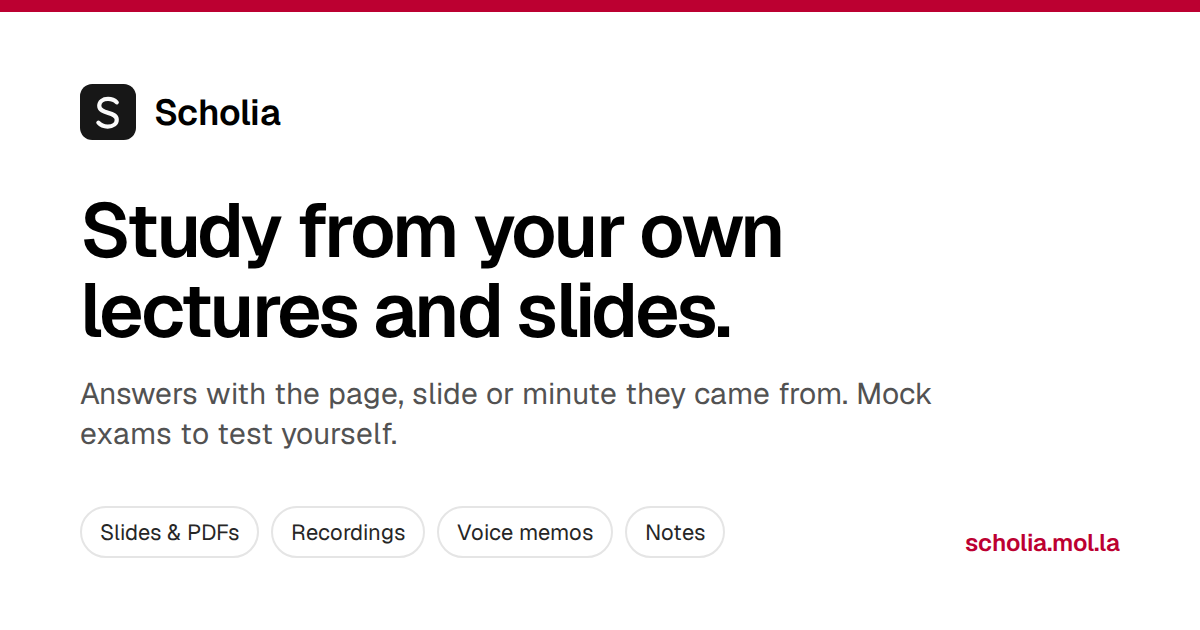
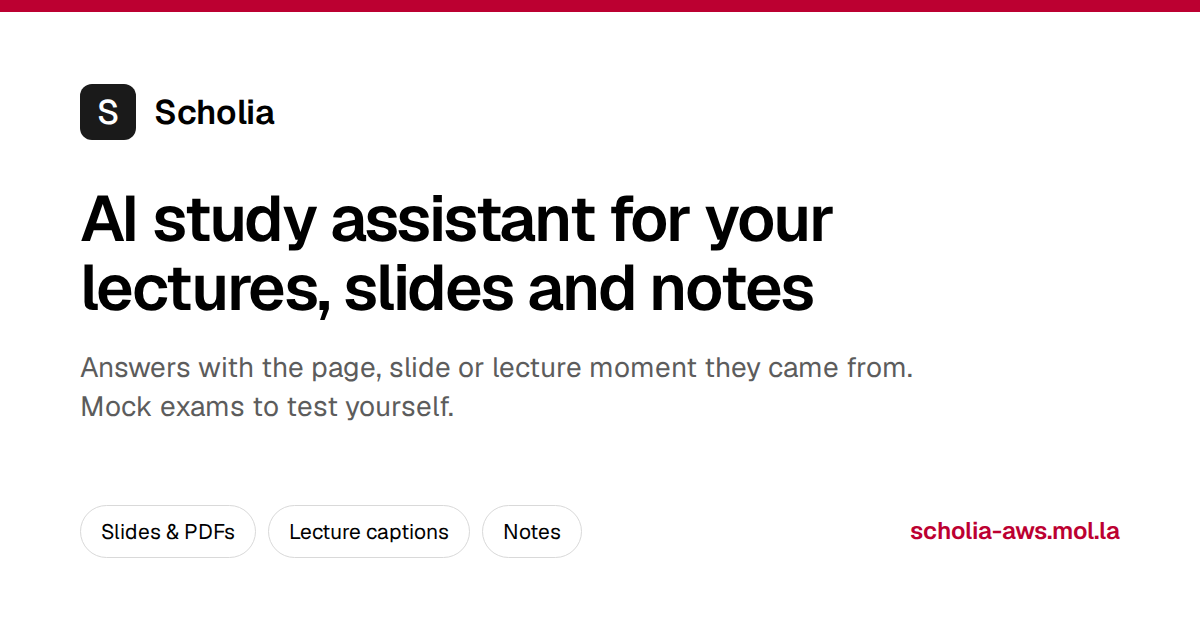
fix(web): use one title across the site and readme (#4)
The tab title, header, landing headline, share image and README each said
something slightly different, and the share image still listed voice memos
and pointed at the other Scholia deployment. They now all read "AI study
assistant for your lectures, slides and notes". The README also says why
the project exists.

The full title is 63 characters, so the search-result length check allows 65.

diff --git a/web/src/lib/content.ts b/web/src/lib/content.ts
@@ -5,6 +5,8 @@
  * native English speakers.
  */
 
+import { siteTagline } from './site.ts'
+
 export const siteUrl = 'https://scholia-aws.mol.la'
 export const repoUrl = 'https://github.com/SumonMSelim/scholia-aws'
 
@@ -12,7 +14,7 @@ export const description =
   'Upload slides, PDFs, notes and lecture captions. Ask questions and get answers with the page, slide or lecture moment they came from. Practice with mock exams.'
 
 export const hero = {
-  title: 'Study from your own lectures and slides.',
+  title: siteTagline,
   body:
     'Upload slides, PDFs, notes and lecture captions. ' +
     'Ask a question and get an answer from your course, with the page, slide or lecture moment it came from. ' +

diff --git a/web/src/App.test.tsx b/web/src/App.test.tsx
@@ -74,7 +74,8 @@ describe('App', () => {
     vi.spyOn(globalThis, 'fetch').mockReturnValue(new Promise(() => {}))
     render(<App />)
     expect(screen.getByRole('heading', { level: 1 })).toHaveTextContent(hero.title)
-    expect(screen.getByText(siteTagline)).toBeInTheDocument()
+    // The headline and the header both carry the tagline.
+    expect(screen.getAllByText(siteTagline)).toHaveLength(2)
     for (const name of ['What Scholia does', 'How it works', 'Files you can upload', 'Questions']) {
       expect(screen.getByRole('heading', { level: 2, name })).toBeInTheDocument()
     }

diff --git a/web/src/lib/site.ts b/web/src/lib/site.ts
@@ -1,4 +1,4 @@
-/** The site's name and tagline. The tab title, header and footer all read these. */
+/** The site's name and tagline. The tab title, header, footer and landing headline all read these. */
 export const siteName = 'Scholia'
-export const siteTagline = 'AI study assistant for your lectures and slides'
+export const siteTagline = 'AI study assistant for your lectures, slides and notes'
 export const siteTitle = `${siteName}: ${siteTagline}`

diff --git a/web/src/lib/seo.test.ts b/web/src/lib/seo.test.ts
@@ -23,7 +23,7 @@ describe('seo', () => {
   })
 
   it('keeps the description short enough for search results', () => {
-    expect(siteTitle.length).toBeLessThanOrEqual(60)
+    expect(siteTitle.length).toBeLessThanOrEqual(65)
     expect(description.length).toBeLessThanOrEqual(160)
   })
 

diff --git a/README.md b/README.md
@@ -1,10 +1,12 @@
-# Scholia
+# Scholia: AI study assistant for your lectures, slides and notes
 
 [![CI](https://github.com/SumonMSelim/scholia-aws/actions/workflows/ci.yml/badge.svg)](https://github.com/SumonMSelim/scholia-aws/actions/workflows/ci.yml)
 [![Go](https://img.shields.io/badge/Go-1.27-00ADD8?logo=go&logoColor=white)](https://go.dev/)
 [![License: MIT](https://img.shields.io/badge/License-MIT-blue.svg)](LICENSE)
 
 Scholia turns a course's lecture transcripts, slides, notes and assignments into a knowledge base that answers questions with citations to the exact lecture moment, slide or page, and helps you prepare for exams. The name comes from *scholia*, the notes scholars wrote in the margins of classical texts.
+
+I built Scholia for myself first, to help with my Master's studies. I wanted answers that come from my own course and that I can check against the lecture. It is free and open source so any student can use it the same way.
 
 **Live app:** https://scholia-aws.mol.la (click **Try the demo, no sign-up**; guest data is deleted after 48 hours)
 
